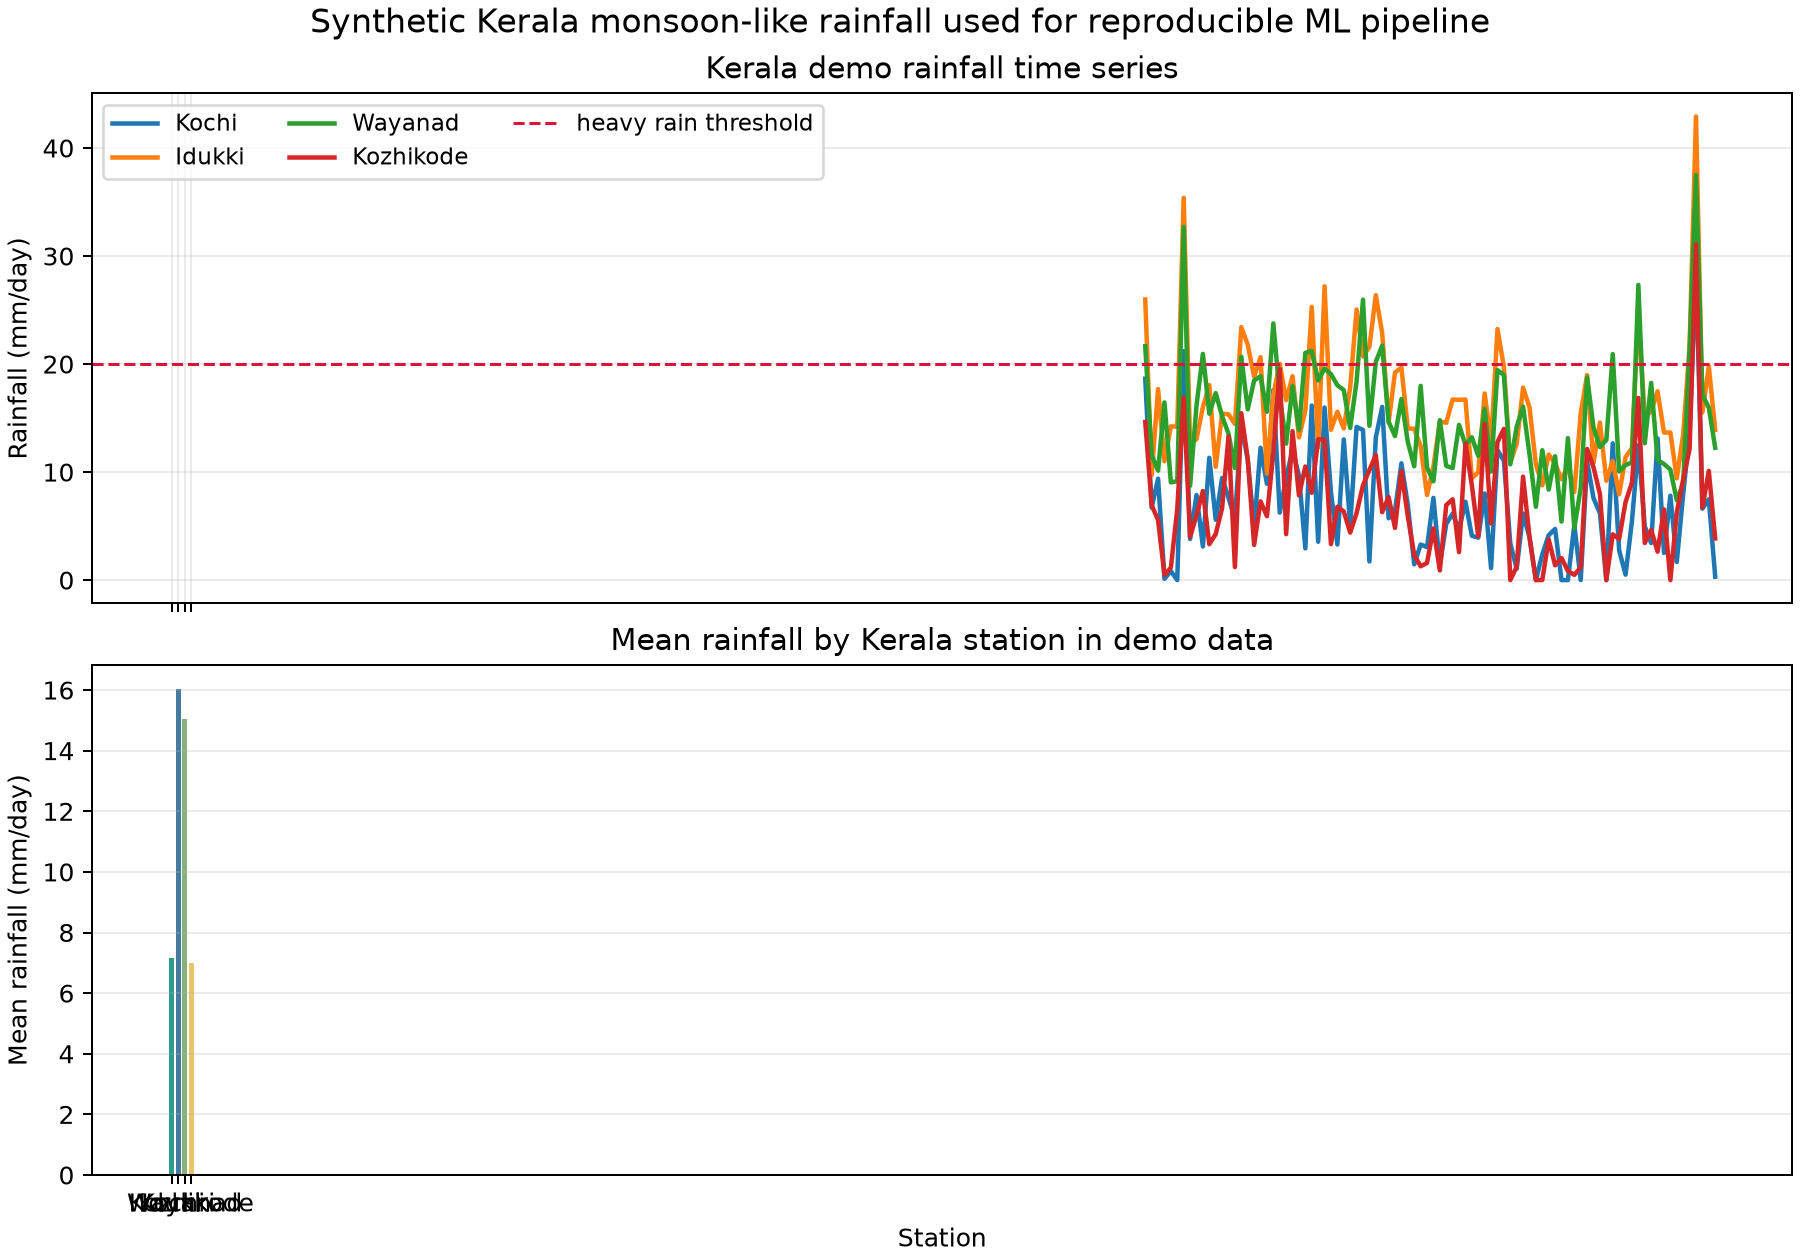
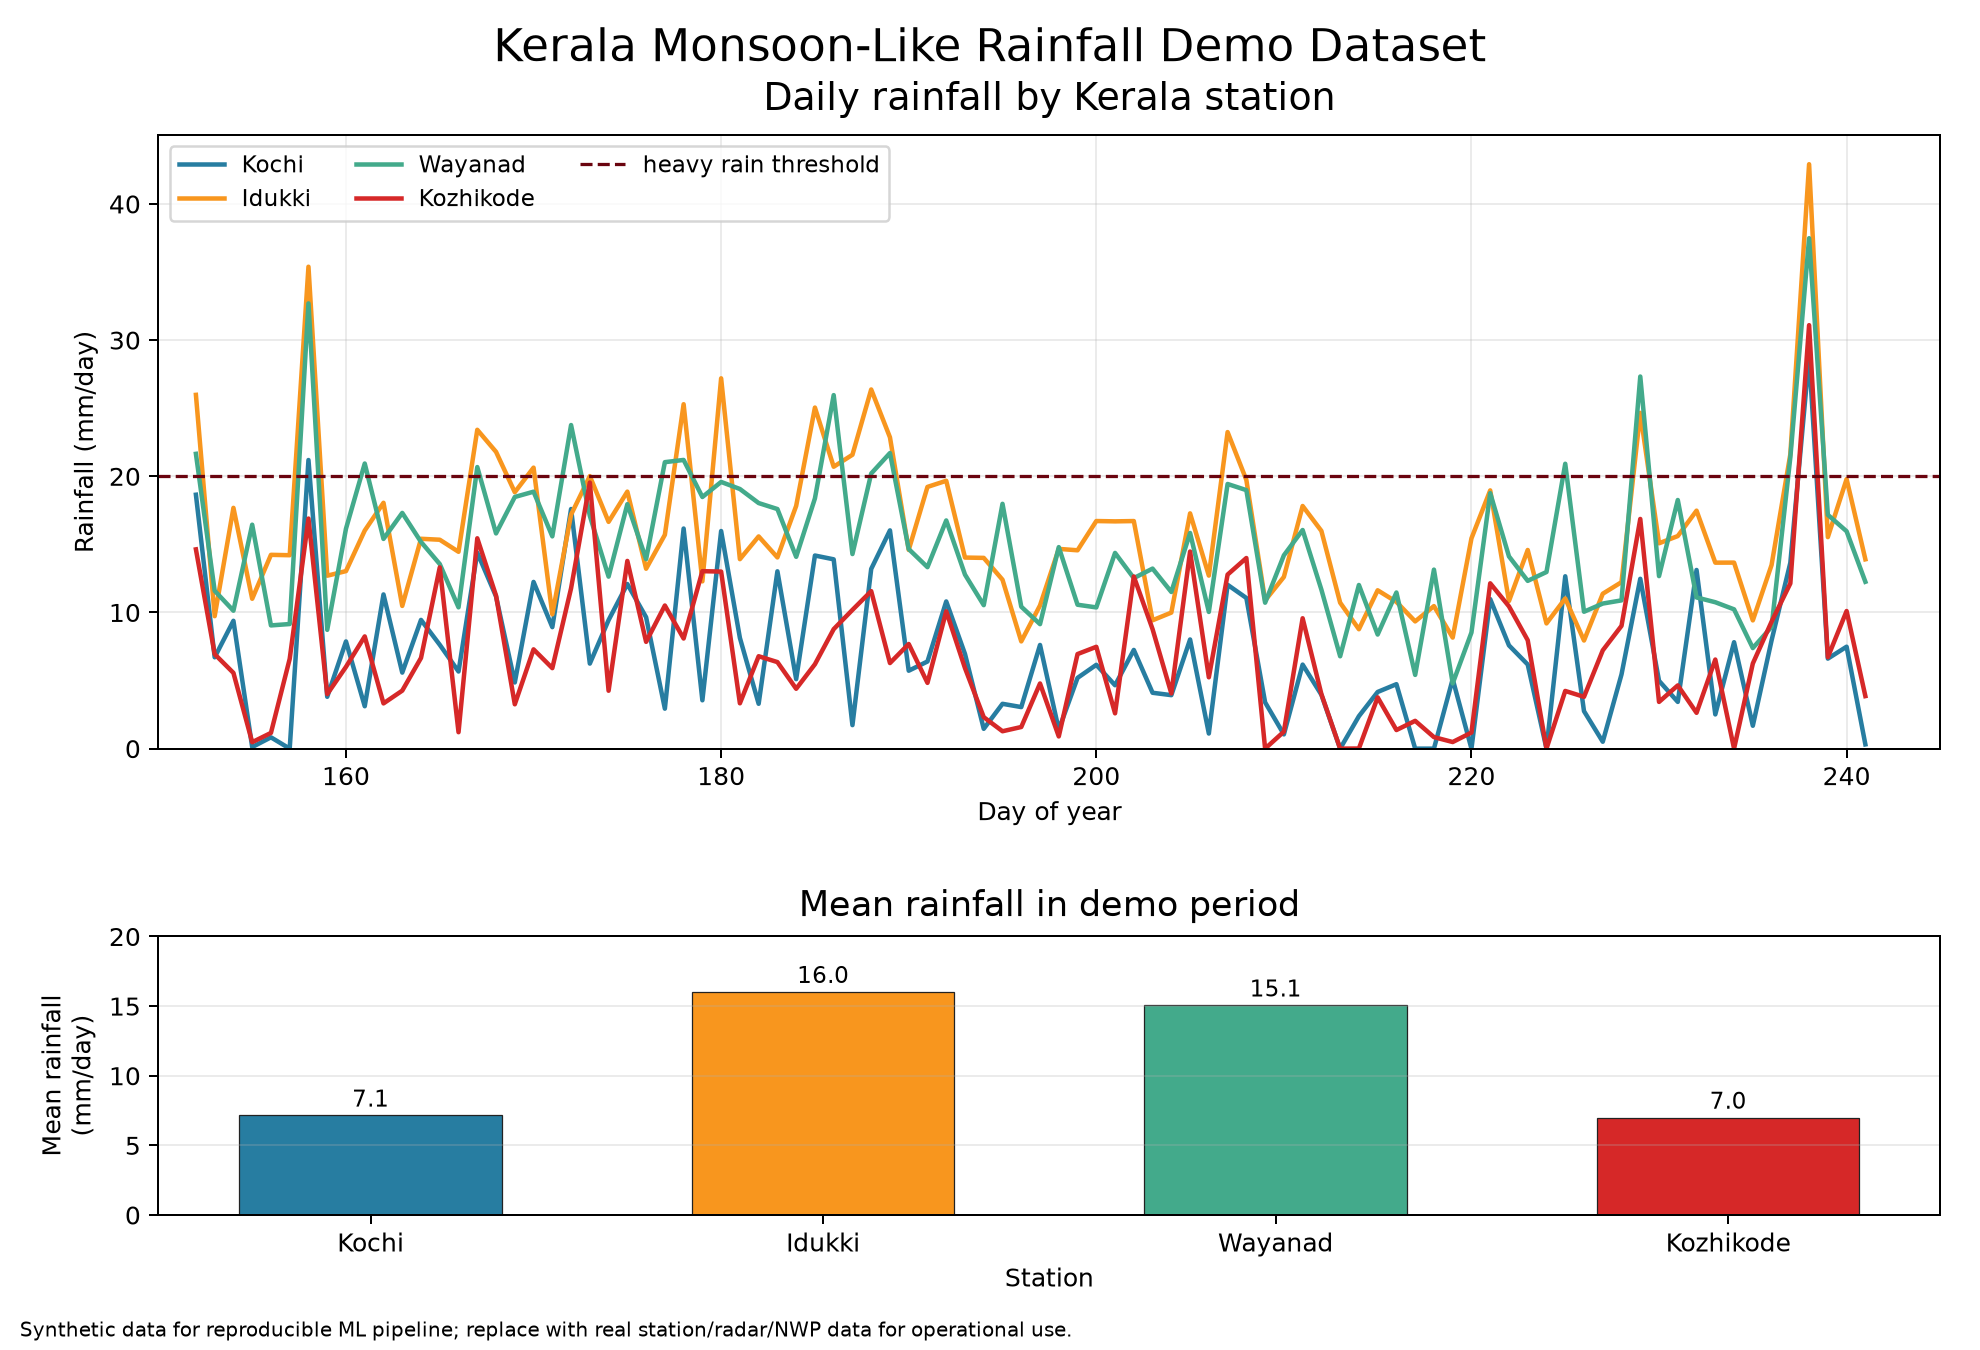
Improve Kerala demo rainfall figure readability

diff --git a/scripts/plot_kerala_demo.py b/scripts/plot_kerala_demo.py
@@ -21,20 +21,33 @@ def main() -> None:
 
     ds = make_kerala_demo_dataset(n_days=90, seed=11)
     stations = ["Kochi", "Idukki", "Wayanad", "Kozhikode"]
+    colors = {
+        "Kochi": "#277da1",
+        "Idukki": "#f8961e",
+        "Wayanad": "#43aa8b",
+        "Kozhikode": "#d62828",
+    }
 
-    fig, axes = plt.subplots(2, 1, figsize=(10, 7), sharex=True, constrained_layout=True)
-    ax_ts, ax_bar = axes
+    fig, (ax_ts, ax_bar) = plt.subplots(
+        2,
+        1,
+        figsize=(11, 7.5),
+        gridspec_kw={"height_ratios": [2.2, 1.0], "hspace": 0.42},
+    )
 
     for station in stations:
         mask = ds["station"].values == station
         day = ds["day_of_year"].values[mask]
         rain = ds["precipitation"].values[mask]
-        ax_ts.plot(day, rain, linewidth=1.8, label=station)
+        ax_ts.plot(day, rain, linewidth=1.8, color=colors[station], label=station)
 
-    ax_ts.axhline(20.0, color="crimson", linestyle="--", linewidth=1.2, label="heavy rain threshold")
-    ax_ts.set_title("Kerala demo rainfall time series")
+    ax_ts.axhline(20.0, color="#6a040f", linestyle="--", linewidth=1.3, label="heavy rain threshold")
+    ax_ts.set_title("Daily rainfall by Kerala station", fontsize=15, pad=10)
     ax_ts.set_ylabel("Rainfall (mm/day)")
-    ax_ts.legend(ncol=3, fontsize=9)
+    ax_ts.set_xlabel("Day of year")
+    ax_ts.set_xlim(150, 245)
+    ax_ts.set_ylim(bottom=0)
+    ax_ts.legend(ncol=3, fontsize=9, frameon=True, loc="upper left")
     ax_ts.grid(alpha=0.25)
 
     station_means = []
@@ -42,13 +55,38 @@ def main() -> None:
         mask = ds["station"].values == station
         station_means.append(float(np.mean(ds["precipitation"].values[mask])))
 
-    ax_bar.bar(stations, station_means, color=["#2a9d8f", "#457b9d", "#8ab17d", "#e9c46a"])
-    ax_bar.set_title("Mean rainfall by Kerala station in demo data")
-    ax_bar.set_ylabel("Mean rainfall (mm/day)")
+    x_positions = np.arange(len(stations))
+    ax_bar.bar(
+        x_positions,
+        station_means,
+        width=0.58,
+        color=[colors[station] for station in stations],
+        edgecolor="#222222",
+        linewidth=0.5,
+    )
+    ax_bar.set_title("Mean rainfall in demo period", fontsize=14, pad=8)
+    ax_bar.set_ylabel("Mean rainfall\n(mm/day)")
     ax_bar.set_xlabel("Station")
+    ax_bar.set_xticks(x_positions)
+    ax_bar.set_xticklabels(stations, rotation=0, ha="center")
+    ax_bar.set_ylim(0, max(station_means) * 1.25)
     ax_bar.grid(axis="y", alpha=0.25)
 
-    fig.suptitle("Synthetic Kerala monsoon-like rainfall used for reproducible ML pipeline", fontsize=13)
+    for x, value in zip(x_positions, station_means):
+        ax_bar.text(x, value + 0.25, f"{value:.1f}", ha="center", va="bottom", fontsize=9)
+
+    fig.suptitle(
+        "Kerala Monsoon-Like Rainfall Demo Dataset",
+        fontsize=18,
+        y=0.98,
+    )
+    fig.text(
+        0.01,
+        0.01,
+        "Synthetic data for reproducible ML pipeline; replace with real station/radar/NWP data for operational use.",
+        fontsize=8,
+    )
+    fig.subplots_adjust(top=0.9, bottom=0.1, left=0.08, right=0.98)
     fig.savefig(output, dpi=180)
     print(f"saved {output}")
 